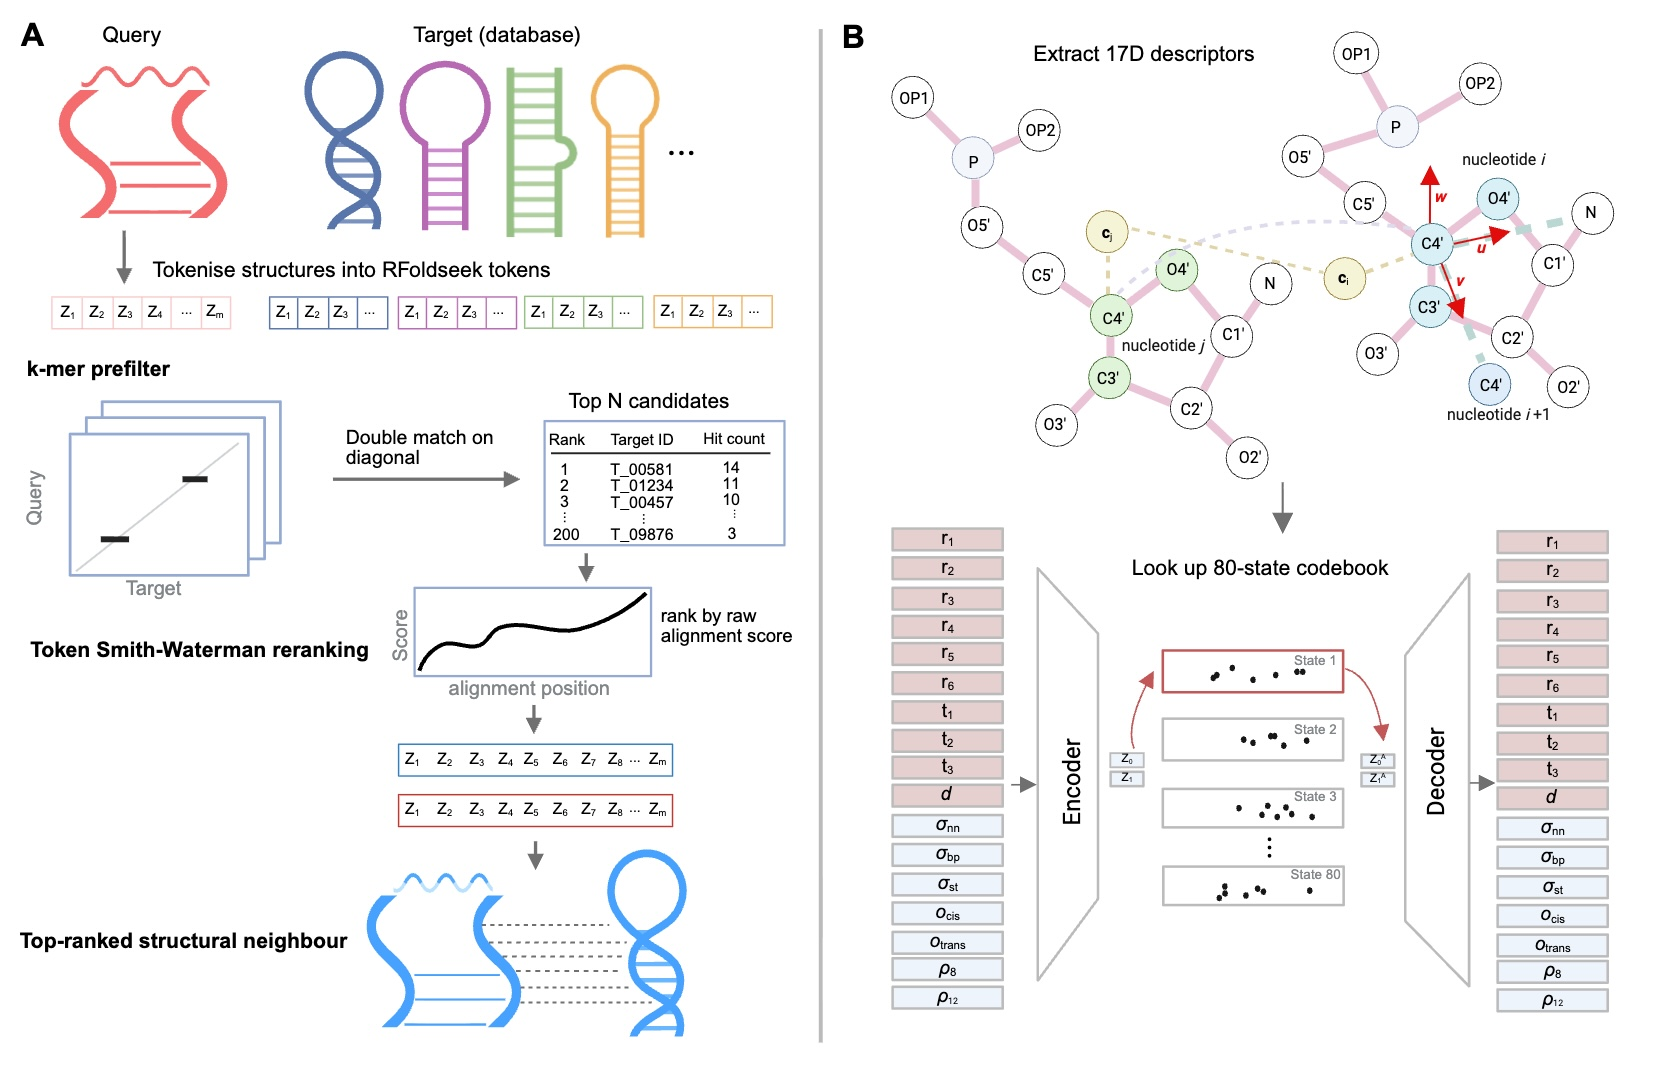
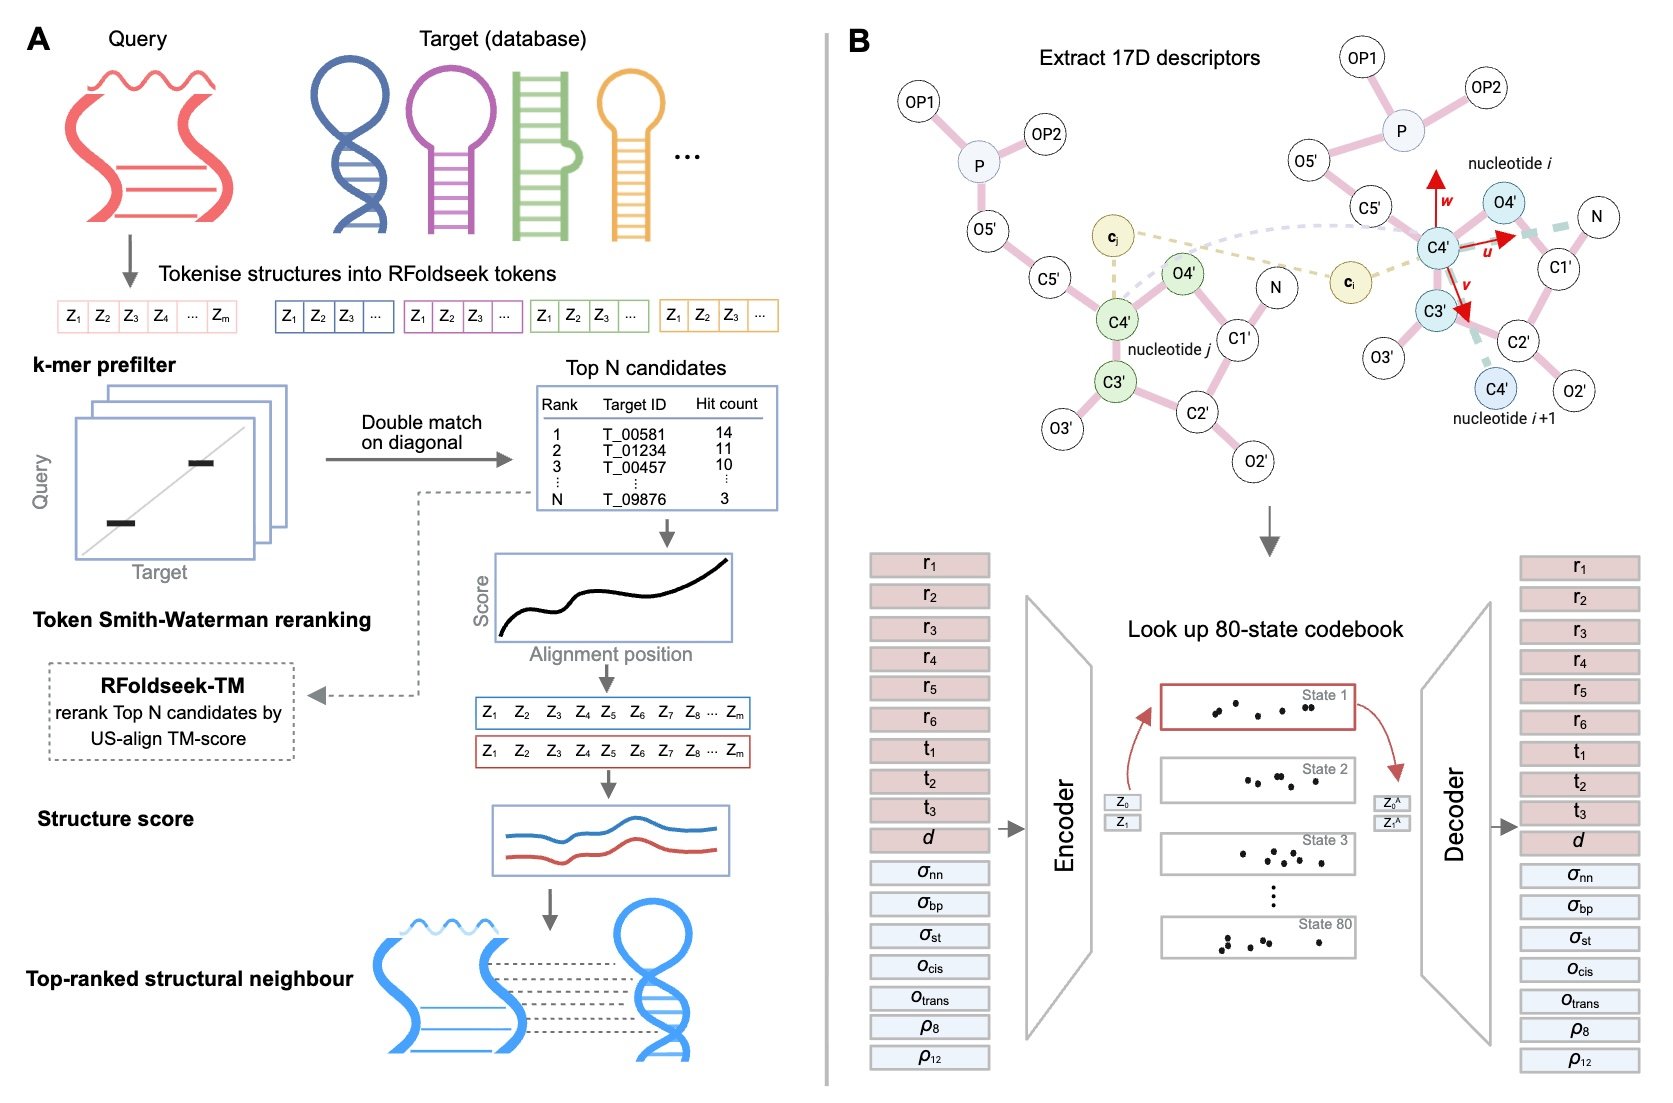
README: new overview figure and its description
Replace fig1 with the current pipeline figure (A: prefilter, token
Smith-Waterman alignment, structure score, RFoldseek-TM; B: 17-D descriptor
and 80-state VQ-VAE) and rewrite the opening paragraph to match it.

diff --git a/README.md b/README.md
@@ -1,6 +1,6 @@
 <h1><a name="rfoldseek"></a><img src=".github/header.PNG" alt="RFoldseek" height="88" /></h1>
 
-RFoldseek enables fast RNA tertiary-structure search with **3Dr**, a learned discrete structural alphabet. Each nucleotide's local geometry is quantised into one of 80 states by a VQ-VAE, converting RNA chains into token strings that are searched with an inverted-index k-mer prefilter. The standard RFoldseek mode aligns prefilter hits by affine-gap token Smith-Waterman, superposes the aligned C4′ atoms, ranks hits by the Smith-Waterman score times the resulting alignment TM-score, and assigns each hit a cluster-maximum Gumbel E-value from its Smith-Waterman score. We also provide RFoldseek-TM, an accuracy-oriented mode in which the same prefilter candidates are reranked by coordinate alignment with US-align using the mean of the two length-normalised TM-scores.
+RFoldseek enables fast RNA tertiary-structure search with **3Dr**, a learned discrete structural alphabet. Each nucleotide is described by a 17-D vector: the rigid-body transform to its nearest non-sequential spatial neighbour (distance, direction and rotation) and its local context (sequence separations to its neighbour, base-pair and stacking partners, cis/trans base-pair orientation, and contact density within 8 and 12 Å). A VQ-VAE quantises this vector into one of 80 states, converting RNA chains into token strings (**B**). Targets sharing at least two token k-mers on a common diagonal with the query pass the prefilter, and the top N are aligned by affine-gap token Smith-Waterman, which gives the alignment score S_SW and the nucleotide correspondence. The aligned C4′ atoms are then superposed without changing the alignment, and hits are ranked by the structure score R_str = S_SW × aTM, where aTM is the alignment TM-score; each hit carries a cluster-maximum Gumbel E-value computed from S_SW (**A**). RFoldseek-TM, an accuracy-oriented mode, instead reranks the same top N candidates with US-align by the mean of the two length-normalised TM-scores.
 
 <p align="center"><img src=".github/fig1.jpeg" width="720" /></p>
 
